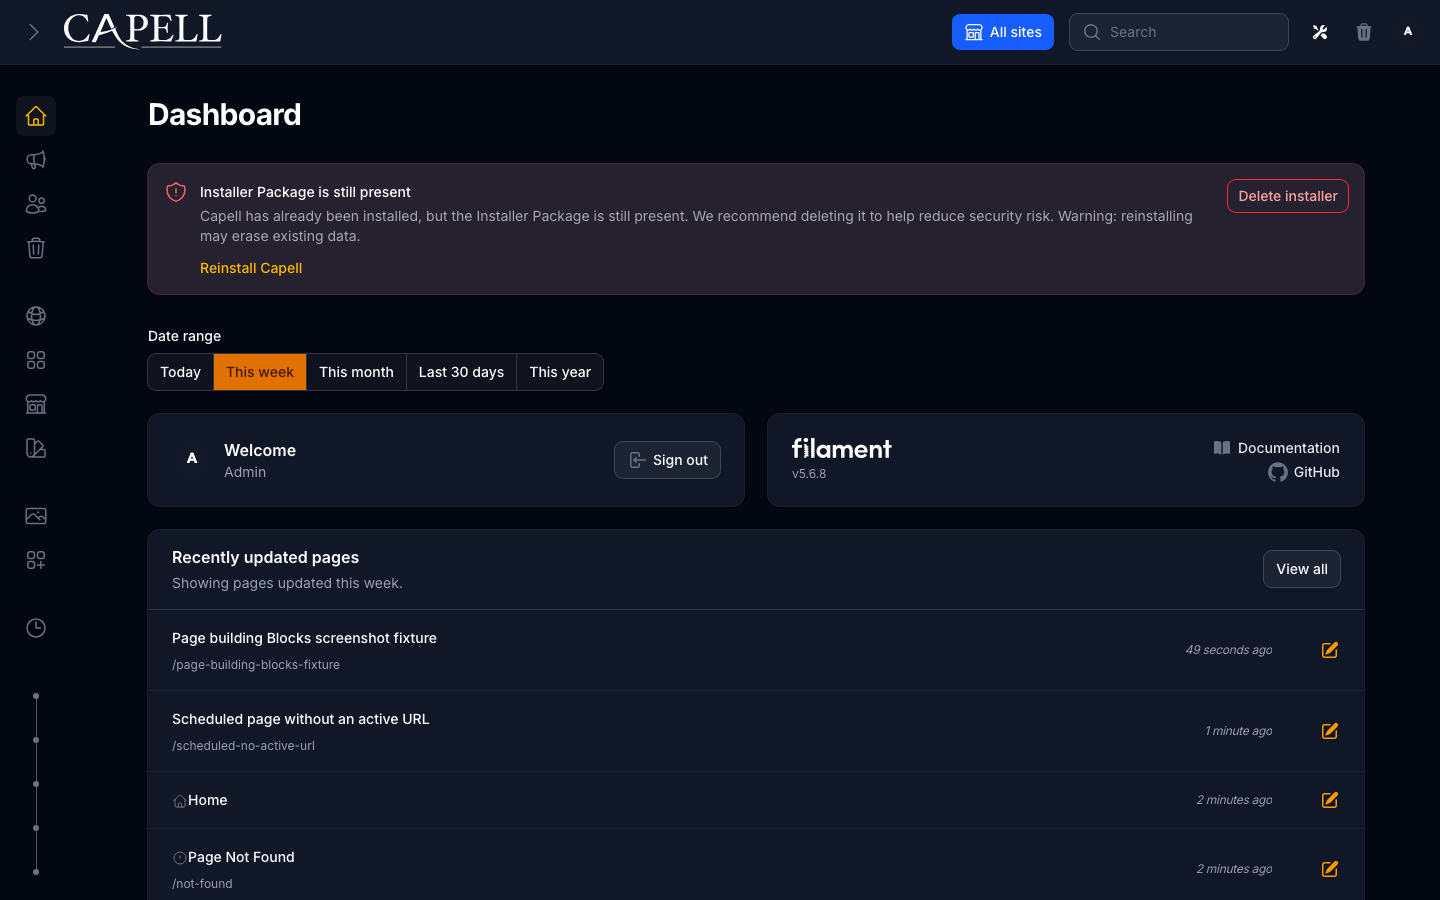
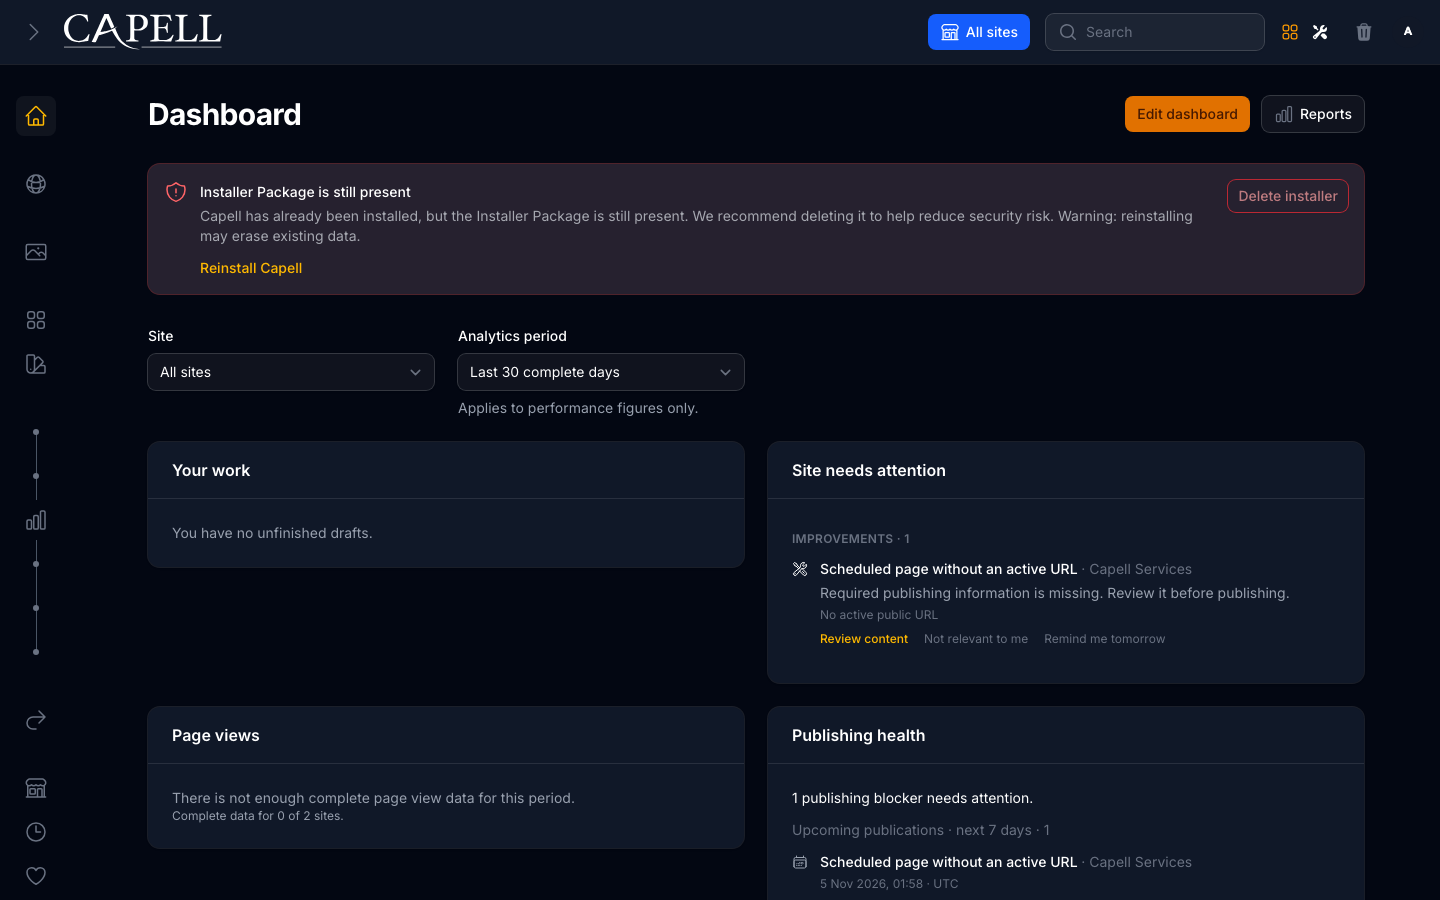
docs(admin): capture verified work-first dashboard states

diff --git a/docs/admin/dashboard-work-first-implementation.md b/docs/admin/dashboard-work-first-implementation.md
@@ -38,8 +38,8 @@ verification are tracked separately by the coordinating checkout.
 | Urgent summary, attention, publishing and activity | Separate work-first widgets are present; trace the coordinator’s tests and browser evidence before marking these complete. Optional content status and recently updated widgets are hidden by default and have site-scoped focused checks in `OptionalContentWidgetsTest.php`.                                                                                                                                                          |
 | Analytics                                          | `BuildPageViewsActionTest.php` covers complete coverage, valid zero, disconnected, restricted role, failed fetch and stale cached figures. `VisitorsSnapshotTest.php` covers configured single-site visitor mapping and omits All-sites visitor totals. `BuildCompleteAnalyticsPeriodActionTest.php` covers complete source-local periods across DST. More multi-site, stale, source and browser cases remain.                          |
 | Popular and rising                                 | `PageRankingsTest.php` covers populated and insufficient states, mapping, site selection and thresholds. The default source cannot supply page rankings; configured external providers need separate integration evidence.                                                                                                                                                                                                              |
-| Accessibility and visual acceptance                | Not yet browser verified. Required populated, empty, failure, restricted-role, multilingual and multi-site states, responsive widths, keyboard editing, light/dark and shared-runner screenshots remain.                                                                                                                                                                                                                                |
-| Full verification                                  | Focused host PHP 8.4 checks have run. Required full local gates, coverage and hosted CI remain for the coordinator.                                                                                                                                                                                                                                                                                                                     |
+| Accessibility and visual acceptance                | Shared-runner light/dark captures use clean source and zero browser/backend diagnostics. Native browser checks cover populated/empty states, 390px stacking, keyboard chooser/reorder/resize, Save/Cancel/restore and master-switch fallback with preserved preferences. Real optional approval-provider browser acceptance and some restricted/multilingual/failure states remain outstanding; diagnostic captures are not promoted.   |
+| Full verification                                  | Affected dashboard, workspace and architecture checks pass 331 tests/1,432 assertions; installer path ordering and repair have 13 tests/37 assertions and fresh-install evidence. Configured screenshot validation and scoped PHPStan pass. The full gate previously reported unrelated Frontend failures; the final full gate, local matrix, coverage threshold and hosted checks remain required.                                     |
 
 No optional integration is claimed merely because an unavailable state renders.
 
@@ -77,7 +77,7 @@ integration or browser acceptance yet.
 `capell-admin.dashboard.work_first.enabled` is the master switch. Its package
 configuration reads `CAPELL_WORK_FIRST_DASHBOARD`; existing installations stay
 on the legacy dashboard unless explicitly enabled. Fresh-install enablement and
-explicit opt-out handling must be verified against the installer implementation.
+explicit opt-out handling has focused installer coverage. Canonical fresh-install verification also checks that separately registered user migrations precede the preference-column migration; a corrective migration preserves preferences on installations affected by the earlier ordering.
 
 `capell-admin.dashboard.work_first.widgets` is a map of widget keys to booleans.
 Setting a key to `false` overrides personal layouts and prevents that widget's
